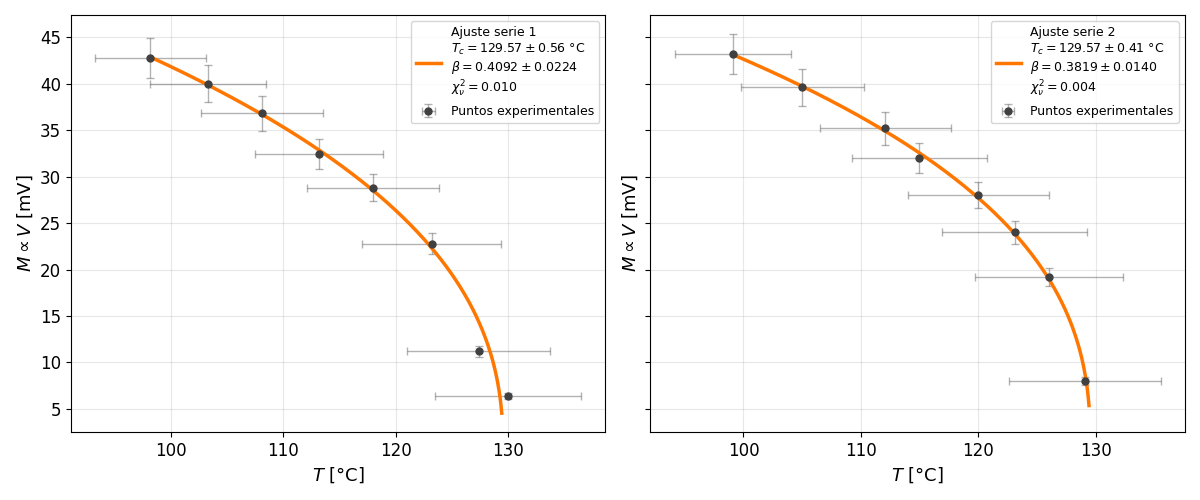
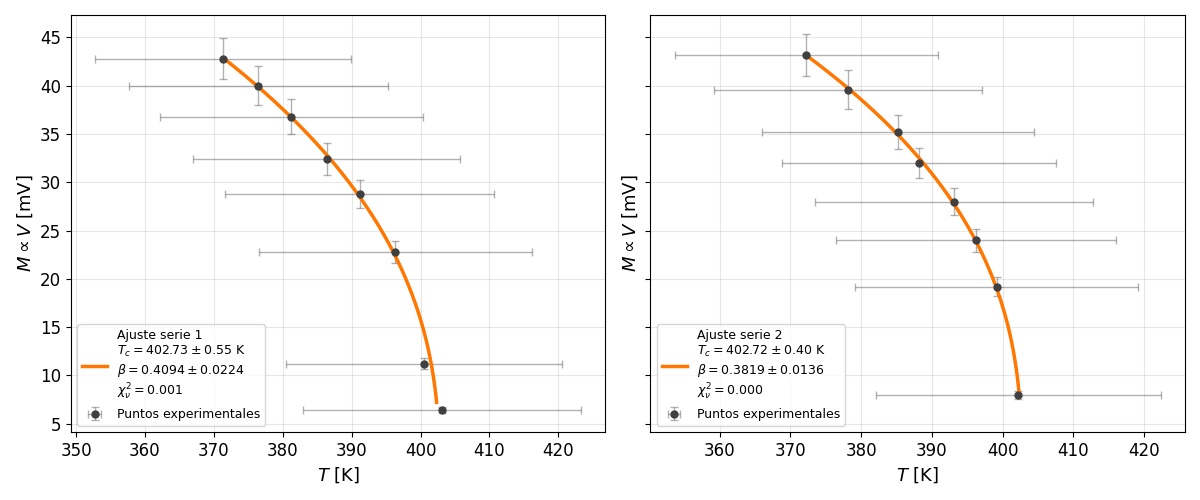
Todos los cambios de la clase del 14/7

diff --git a/Experimento IV, Ferromagnetico/Codigo/funciones.py b/Experimento IV, Ferromagnetico/Codigo/funciones.py
@@ -18,7 +18,7 @@ def graficarDatos(
     fig, ax1 = plt.subplots(figsize=(8, 5))
     fig.suptitle(titulo, fontsize=13)
 
-    ax1.set_xlabel("T [°C]")
+    ax1.set_xlabel("T [K]")
     ax1.set_ylabel("Ch1 [V]", color=color_ch1)
 
     ax1.plot(
@@ -70,7 +70,7 @@ def graficarDatos(
 
 def ajustarMagnetizacionTc(
     serie,
-    beta0=(75.0, 150.0, 0.3)
+    beta0=(75.0, 150.0+273.15, 0.3)
 ):
 
     T = serie["T"].values
@@ -141,7 +141,7 @@ def graficarAjusteTc(
 
     label = (
         f"Ajuste {nombre_serie}\n"
-        rf"$T_c={Tc:.2f}\pm{sTc:.2f}$ °C"
+        rf"$T_c={Tc:.2f}\pm{sTc:.2f}$ K"
         "\n"
         rf"$\beta={beta:.4f}\pm{sBeta:.4f}$"
         "\n"
@@ -156,7 +156,7 @@ def graficarAjusteTc(
         label=label
     )
 
-    ax.set_xlabel(r"$T$ [°C]", fontsize=13)
+    ax.set_xlabel(r"$T$ [K]", fontsize=13)
     ax.set_ylabel(r"$M \propto V$ [mV]", fontsize=13)
     ax.tick_params(axis='both', which='major', labelsize=12)
     ax.grid(True, alpha=0.3)
@@ -216,7 +216,7 @@ def graficarAjusteBlochFijo(
 
     label = (
         f"Ajuste {nombre_serie}\n"
-        rf"$T_c={Tc:.2f}\pm{sTc:.2f}$ °C"
+        rf"$T_c={Tc:.2f}\pm{sTc:.2f}$ K"
         "\n"
         rf"$\chi^2_\nu={chi2_red:.3f}$"
     )
@@ -229,7 +229,7 @@ def graficarAjusteBlochFijo(
         label=label
     )
 
-    ax.set_xlabel(r"$T$ [°C]", fontsize=13)
+    ax.set_xlabel(r"$T$ [K]", fontsize=13)
     ax.set_ylabel(r"$M \propto V$ [mV]", fontsize=13)
     ax.tick_params(axis='both', which='major', labelsize=12)
     ax.grid(True, alpha=0.3)
@@ -334,7 +334,7 @@ def graficarAjusteBlochLibre(
 
     ax.plot(Tcurva, ycurva, lw=2, label=label)
 
-    ax.set_xlabel("T [°C]")
+    ax.set_xlabel("T [K]")
     ax.set_ylabel("Ch2 [mV]")
 
     ax.legend()
@@ -408,7 +408,7 @@ def analizar_histeresis(
     N_ciclos = N_total // N_periodo
     N_util = N_ciclos * N_periodo
 
-    print(f"\n===== {temperatura} °C =====")
+    print(f"\n===== {temperatura} K =====")
     print(f"Frecuencia = {frecuencia:.3f} Hz")
     print(f"Muestras por período = {N_periodo}")
     print(f"Ciclos completos = {N_ciclos}")
@@ -494,7 +494,7 @@ def analizar_histeresis(
             label=f"{N_ciclos} ciclos promediados"
         )
 
-        plt.title(f"Histéresis promedio - {temperatura} °C")
+        plt.title(f"Histéresis promedio - {temperatura} K")
         plt.xlabel("CH1")
         plt.ylabel("CH2")
         plt.grid(True)
@@ -525,7 +525,7 @@ def graficar_histeresis(*resultados):
             res["ch1_prom"],
             res["ch2_prom"],
             s=10,
-            label=f'{res["temperatura"]} °C'
+            label=f'{res["temperatura"]} K'
         )
 
     plt.xlabel("$H \propto V [mV]$")
@@ -550,7 +550,7 @@ def graficar_histeresis_error(*resultados):
             fmt='o',
             ms=3,
             capsize=2,
-            label=f'{res["temperatura"]} °C'
+            label=f'{res["temperatura"]} K'
         )
 
     plt.xlabel("CH1 (∝ H)")
@@ -573,7 +573,7 @@ def graficar_histeresis_no_scatter(*resultados):
             'o-',
             ms=2,
             linewidth=1,
-            label=f'{res["temperatura"]} °C'
+            label=f'{res["temperatura"]} K'
         )
 
     plt.xlabel("CH1 (∝ H)")
@@ -599,7 +599,7 @@ def graficar_ciclo_individual(res, ciclo=0):
     plt.xlabel("CH1 (∝ H)")
     plt.ylabel("CH2 (∝ M)")
     plt.title(
-        f'{res["temperatura"]} °C - ciclo {ciclo}'
+        f'{res["temperatura"]} K - ciclo {ciclo}'
     )
 
     plt.grid(True)
@@ -622,7 +622,7 @@ def graficar_todos_los_ciclos(res):
     plt.xlabel("CH1 (∝ H)")
     plt.ylabel("CH2 (∝ M)")
     plt.title(
-        f'{res["temperatura"]} °C - todos los ciclos'
+        f'{res["temperatura"]} K - todos los ciclos'
     )
 
     plt.grid(True)
@@ -641,7 +641,7 @@ def verificar_periodo(res):
         )
 
     plt.title(
-        f'{res["temperatura"]} °C - CH1 de los primeros ciclos'
+        f'{res["temperatura"]} K - CH1 de los primeros ciclos'
     )
 
     plt.xlabel("Índice dentro del período")

diff --git a/Experimento IV, Ferromagnetico/informe 3/5Conclusiones.tex b/Experimento IV, Ferromagnetico/informe 3/5Conclusiones.tex
@@ -3,4 +3,4 @@
 Se estudió la transición de fase ferromagnética-paramagnética para una ferrita mixta de Mn y Zn M100. Se registraron los ciclos de histéresis para seis temperaturas distintas de entre [21, 141] \si{\degreeCelsius}, observando que cuanto mayor es la cercanía a la $T_C$, la altura de los ciclos es menor, indicando una disminución en la magnetización de la muestra. Para el ciclo de histéresis correspondiente a la temperatura de 141 \si{\degreeCelsius}, el ancho del lazo de histéresis es casi nulo, indicando que la muestra se acerca al estado paramagnético.
 
 
-Se registraron dos series de datos de la magnetización $M$ en función de la temperatura, con los cuales se determinó $T_C$ utilizando dos modelos distintos. Para el modelo de Bloch, se obtuvo $T_C$ = \SI{167,6(9)}{\celsius}, mientras que para el modelo de Heisenberg, el valor determinado fue $T_C$ = \SI{129,6(3)}{\celsius}, con $\beta$ = 0,38(1). La temperatura de Curie obtenida a partir de la Ley de Bloch resultó coherente con el rango reportado por el fabricante, siendo $T_C \geq$ 135 \si{\degreeCelsius} \cite{M100}. Por otro lado, a pesar de que la temperatura determinada a partir del modelo de Heisenberg se encuentra por debajo del rango esperado, la discrepancia resultó menor al 5\% y el valor de $\beta$ fue coherente con los valores típicos esperados, los cuales se encuentran entre 0,33 y 0,37 \cite{Bruvera}, por lo que se considera que el modelo de Heisenberg resulta adecuado para describir el comportamiento magnético de la ferrita en el rango de temperaturas estudiado. A partir de estos resultados, fue posible determinar la proporción de $Mn : Zn$ en la ferrita, obteniendo un valor de 0,9(1):1 para el modelo de Bloch y 0,50(6):1 para el modelo de Heisenberg. La diferencia entre ambos resultados se atribuye al rango de temperaturas utilizado para cada modelo, ya que el modelo de Bloch resulta válido a temperaturas lejanas a $T_C$, mientras que el modelo de Heisenberg a temperaturas cercanas a $T_C$. Además, los ${\chi_{\nu}}^2$ obtenidos en el ajuste de ambos modelos fueron cercanos a 0, lo cual indica una sobreestimación de los errores experimentales, por lo que se recomienda tomar más medidas en las regiones de interés.
+Se registraron dos series de datos de la magnetización $M$ en función de la temperatura, con los cuales se determinó $T_C$ utilizando dos modelos distintos. Para el modelo de Bloch, se obtuvo $T_C$ = \SI{197(2)}{\celsius}, mientras que para el modelo de Heisenberg, el valor determinado fue $T_C$ = \SI{129,6(3)}{\celsius}, con $\beta$ = 0,38(1). La temperatura de Curie obtenida a partir de la Ley de Bloch resultó coherente con el rango reportado por el fabricante, siendo $T_C \geq$ 135 \si{\degreeCelsius} \cite{M100}. Por otro lado, a pesar de que la temperatura determinada a partir del modelo de Heisenberg se encuentra por debajo del rango esperado, la discrepancia resultó menor al 5\% y el valor de $\beta$ fue coherente con los valores típicos esperados, los cuales se encuentran entre 0,33 y 0,37 \cite{Bruvera}, por lo que se considera que el modelo de Heisenberg resulta adecuado para describir el comportamiento magnético de la ferrita en el rango de temperaturas estudiado. A partir de estos resultados, fue posible determinar la proporción de $Mn : Zn$ en la ferrita, obteniendo un valor de 1.5(6):1 para el modelo de Bloch y 0.50(2):1 para el modelo de Heisenberg. La diferencia entre ambos resultados se atribuye al rango de temperaturas utilizado para cada modelo, ya que el modelo de Bloch resulta válido a temperaturas lejanas a $T_C$, mientras que el modelo de Heisenberg a temperaturas cercanas a $T_C$. Además, los ${\chi_{\nu}}^2$ obtenidos en el ajuste de ambos modelos fueron cercanos a 0, lo cual indica una sobreestimación de los errores experimentales, por lo que se recomienda tomar más medidas en las regiones de interés.

diff --git a/Experimento IV, Ferromagnetico/informe 3/4Resultados y discusión.tex b/Experimento IV, Ferromagnetico/informe 3/4Resultados y discusión.tex
@@ -10,7 +10,7 @@ Se observa que al aumentar la temperatura el ciclo de histéresis se va cerrando
 \end{figure}
 % En azul 21, en naranja 61, en verde 81, en rojo 101, en violeta 121 y en rosa 141 grados Celsius
 
-Tomando dos series de datos de la magnetización $M$ en función de la temperatura $T$, se determinó la temperatura de Curie $T_C$ del material. Para esto, se utlizaron dos modelos: a temperaturas suficientemente bajas respecto a la de Curie, la magnetización del material se describe según la ley de Bloch \eqref{eq:Bloch}. De los ajustes presentandos en la \autoref{bloch} se obtuvó una temperatura de Curie de $T_C=167.6(9)$ \SI{}{\celsius}.
+Tomando dos series de datos de la magnetización $M$ en función de la temperatura $T$, se determinó la temperatura de Curie $T_C$ del material. Para esto, se utlizaron dos modelos: a temperaturas suficientemente bajas respecto a la de Curie, la magnetización del material se describe según la ley de Bloch \eqref{eq:Bloch}. De los ajustes presentandos en la \autoref{bloch} se obtuvó una temperatura de Curie de $T_C=197(2)$ \SI{}{\celsius}, dejando el exponente fijo.
 
 \begin{figure}[H]
 \centering
@@ -36,4 +36,4 @@ La temperatura de Curie obtenida por la ley de Bloch está en el rango reportado
 \label{ratio}
 \end{figure}
 
-Finalmente, utilizando los valores de $T_C$ obtenidos a partir del modelo de Bloch y de Heisenberg, se confeccionó una recta de la $T_C$ en función de la fracción de Mn, utilizando las $T_C$ asociadas a muestras sin Mn y con el máximo posible \autoref{ratio}. De esta manera, se interpoló la fracción de manganeso en la muestra, siendo de $x_H=33(2)\%$ para el modelo de Heisenberg, dando una proporción de $Mn:Zn = 0.50(6):1$, y de $x_B=48(3)\%$ para el modelo de Bloch indicando una composición $Mn:Zn=0.9(1):1$
+Finalmente, utilizando los valores de $T_C$ obtenidos a partir del modelo de Bloch y de Heisenberg, se confeccionó una recta de la $T_C$ en función de la fracción de Mn, utilizando las $T_C$ asociadas a muestras sin Mn y con el máximo posible \autoref{ratio}. De esta manera, se interpoló la fracción de manganeso en la muestra, siendo de $x_H=33(8)\%$ para el modelo de Heisenberg, dando una proporción de $Mn:Zn = 0.5(2):1$, y de $x_B=60(1)\%$ para el modelo de Bloch indicando una composición $Mn:Zn=1.5(6):1$

diff --git a/Experimento IV, Ferromagnetico/informe 3/1main.tex b/Experimento IV, Ferromagnetico/informe 3/1main.tex
@@ -13,7 +13,7 @@ Universidad Nacional de La Plata, C.C. 64, 1900, La Plata, Argentina}
 \maketitle
 
 \begin{abstract}
- Se caracterizó una ferrita M100 mixta de Mn y Zn a partir de estudiar la dependencia de la magnetización de la muestra con la temperatura. Para ello, se determinó la temperatura de Curie $T_C$ utilizando dos modelos según el régimen considerado: a bajas temperaturas se utilizó la ley de Bloch, de la cual se obtuvo $T_C$ = \SI{167.6(9)}{\celsius}, mientras que a temperaturas cercanas a las de curie, se empleó el modelo de Heisenberg, obteniendo $T_C$ = \SI{129.6(3)}{\celsius} con $\beta$ = 0.38(1), siendo ambos valores razonables considerando el rango de $T_C\geq$ 135 \si{\celsius} reportado por el fabricante. De esta manera fue posible determinar la proporción de Mn/Zn de la ferrita según cada modelo, el cual resultó ser de 0,9(1):1 para el modelo de Bloch y 0,50(6):1 para el modelo de Heisenberg.
+ Se caracterizó una ferrita M100 mixta de Mn y Zn a partir de estudiar la dependencia de la magnetización de la muestra con la temperatura. Para ello, se determinó la temperatura de Curie $T_C$ utilizando dos modelos según el régimen considerado: a bajas temperaturas se utilizó la ley de Bloch, de la cual se obtuvo $T_C$ = \SI{197(2)}{\celsius}, mientras que a temperaturas cercanas a las de curie, se empleó el modelo de Heisenberg, obteniendo $T_C$ = \SI{129.6(3)}{\celsius} con $\beta$ = 0.38(1), siendo ambos valores razonables considerando el rango de $T_C\geq$ 135 \si{\celsius} reportado por el fabricante. De esta manera fue posible determinar la proporción de Mn/Zn de la ferrita según cada modelo, el cual resultó ser de 1.5(6):1 para el modelo de Bloch y 0.5(2):1 para el modelo de Heisenberg.
 \end{abstract}
 
 \begin{figure}[H]

diff --git a/Experimento IV, Ferromagnetico/Codigo/TCurie.py b/Experimento IV, Ferromagnetico/Codigo/TCurie.py
@@ -41,8 +41,12 @@ serie1 = serie1[:-5]
 # AJUSTE CRITICO
 # =============================================================================
 
-serie1Tc = serie1.iloc[9:-1]
-serie2Tc = serie2.iloc[6:-5]
+serie1Tc = serie1.iloc[9:-1].copy()
+serie2Tc = serie2.iloc[6:-5].copy()
+
+# Celsius -> Kelvin para aplicar el modelo crítico
+serie1Tc.loc[:, "T"] = serie1Tc["T"] + 273.15
+serie2Tc.loc[:, "T"] = serie2Tc["T"] + 273.15
 
 resTc1 = ajustarMagnetizacionTc(serie1Tc)
 resTc2 = ajustarMagnetizacionTc(serie2Tc)
@@ -86,7 +90,7 @@ plt.show()
 
 x = np.array([0, 1])
 
-y = np.array([45, 300])
+y = np.array([45+273.15, 300+273.15])
 
 sy = 0.05 * y
 
@@ -145,7 +149,7 @@ x_prom, sx_prom = composicion_mn(
 )
 
 print("\n===== TEMPERATURA DE CURIE PROMEDIO =====\n")
-print(f"Tc = {Tc_prom:.2f} ± {sTc_prom:.2f} °C")
+print(f"Tc = {Tc_prom:.2f} ± {sTc_prom:.2f} K")
 
 print("\n===== COMPOSICION PROMEDIO =====\n")
 print(f"Mn = {x_prom:.5f} ± {sx_prom:.5f}")
@@ -222,7 +226,7 @@ handles, labels = ax.get_legend_handles_labels()
 handles.extend(extra_labels)
 
 ax.set_xlabel('Fracción de Mn')
-ax.set_ylabel(r'$T_c$ [°C]')
+ax.set_ylabel(r'$T_c$ [K]')
 
 ax.grid(True, alpha=0.3)
 ax.legend(handles=handles)
@@ -236,7 +240,7 @@ plt.show()
 
 print("\n===== RESULTADO FINAL =====\n")
 
-print(f"Tc = {Tc_prom:.2f} ± {sTc_prom:.2f} °C")
+print(f"Tc = {Tc_prom:.2f} ± {sTc_prom:.2f} K")
 print(f"Mn = {x_prom:.5f} ± {sx_prom:.5f}")
 print(f"Zn = {1-x_prom:.5f} ± {sx_prom:.5f}")
 

diff --git a/Experimento IV, Ferromagnetico/Codigo/Bloch.py b/Experimento IV, Ferromagnetico/Codigo/Bloch.py
@@ -42,8 +42,12 @@ serie1 = serie1[:-5]
 # BLOCH FIJO
 # =============================================================================
 
-serie1Bloch = serie1.iloc[:-12]
-serie2Bloch = serie2.iloc[:-13]
+serie1Bloch = serie1.iloc[:-12].copy()
+serie2Bloch = serie2.iloc[:-13].copy()
+
+# Convertir la temperatura de grados Celsius a Kelvin
+serie1Bloch.loc[:, "T"] = serie1Bloch["T"] + 273.15
+serie2Bloch.loc[:, "T"] = serie2Bloch["T"] + 273.15
 
 resBlochFijo1 = ajustarMagnetizacionBlochFijo(
     serie1Bloch
@@ -94,7 +98,7 @@ plt.show()
 
 x = np.array([0, 1])
 
-y = np.array([45, 300])
+y = np.array([45+273.15, 300+273.15])
 
 sy = 0.05 * y
 
@@ -147,7 +151,7 @@ sTc_prom = np.sqrt(
 )
 
 print("\n===== Tc PROMEDIO (BLOCH) =====\n")
-print(f"Tc = {Tc_prom:.2f} ± {sTc_prom:.2f} °C")
+print(f"Tc = {Tc_prom:.2f} ± {sTc_prom:.2f} K")
 
 
 # =============================================================================
@@ -236,7 +240,7 @@ handles, labels = ax.get_legend_handles_labels()
 handles.extend(extra_labels)
 
 ax.set_xlabel('Fracción de Mn')
-ax.set_ylabel(r'$T_c$ [°C]')
+ax.set_ylabel(r'$T_c$ [K]')
 
 ax.grid(True, alpha=0.3)
 ax.legend(handles=handles)

diff --git a/Experimento IV, Ferromagnetico/Codigo/PorcentajeMnZn.py b/Experimento IV, Ferromagnetico/Codigo/PorcentajeMnZn.py
@@ -6,20 +6,20 @@ from matplotlib.lines import Line2D
 # PEGAR ACA LOS Tc PROMEDIO
 # ==========================================================
 
-Tc_heis  = 129.57
-sTc_heis = 0.33
+Tc_heis  = 402.72
+sTc_heis = 0.32
 
-Tc_bloch  = 167.63
-sTc_bloch = 0.9
-
-
+Tc_bloch  = 469.99
+sTc_bloch = 2.34
+# 197(2)
+# 129.6(3)
 # ==========================================================
 # CALIBRACION
 # ==========================================================
 
 x_cal = np.array([0, 1])
 
-Tc_cal = np.array([45, 300])
+Tc_cal = np.array([45+273.15, 300+273.15])
 
 sTc_cal = 0.05 * Tc_cal
 
@@ -160,7 +160,7 @@ handles.extend(extra_labels)
 ax.legend(handles=handles, fontsize=12)
 
 ax.set_xlabel('Fracción de Mn', fontsize=14)
-ax.set_ylabel(r'$T_c$ [°C]', fontsize=14)
+ax.set_ylabel(r'$T_c$ [K]', fontsize=14)
 
 ax.tick_params(axis='both', labelsize=12)
 

diff --git a/Experimento V, Cajita Feliz/Codigo/AnalisisRuidoAmplitudes.py b/Experimento V, Cajita Feliz/Codigo/AnalisisRuidoAmplitudes.py
@@ -84,8 +84,8 @@ for numero_archivo in archivos:
 
 respuesta = analizar_cocientes_amplitud(
     resultados,
-    entrada="ch1",
-    salida="ch2",
+    entrada="ch2",
+    salida="ch1",
     archivos=archivos,
     eps=1e-12
 )
